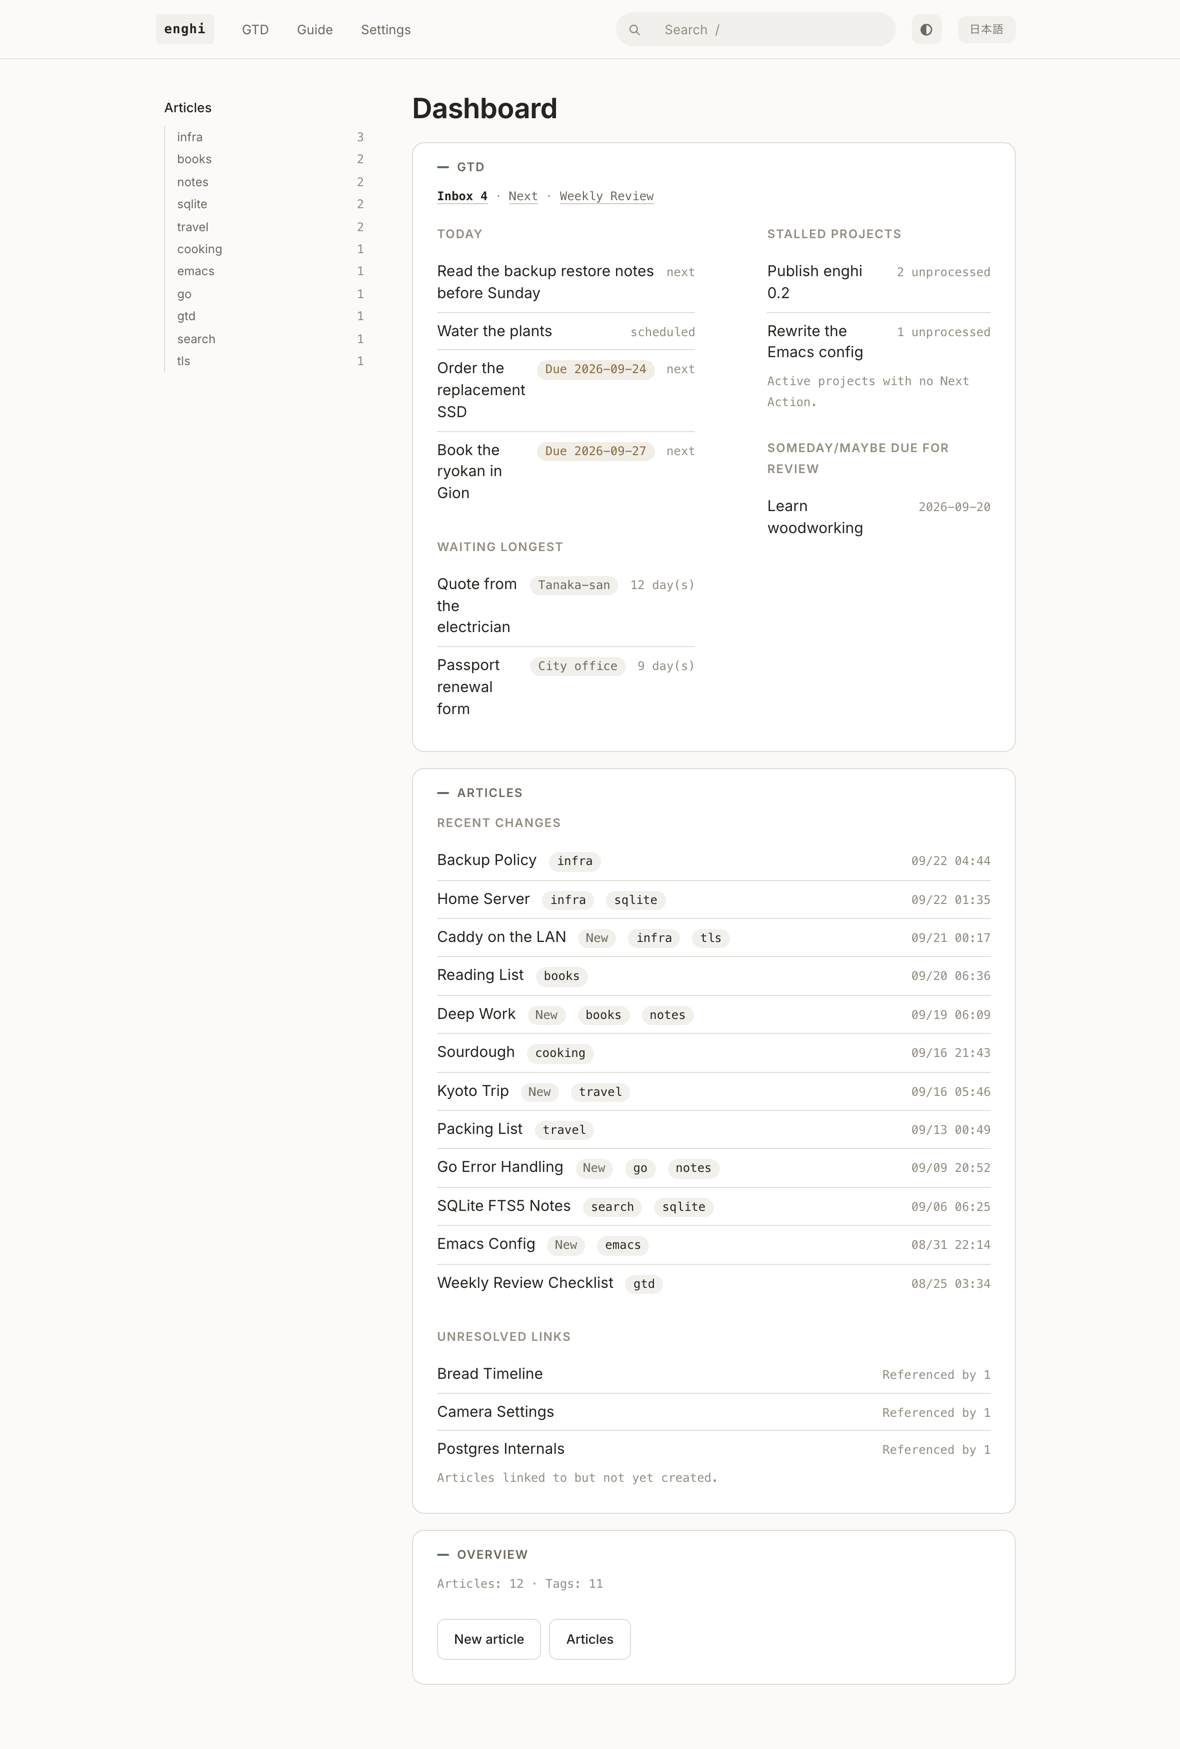
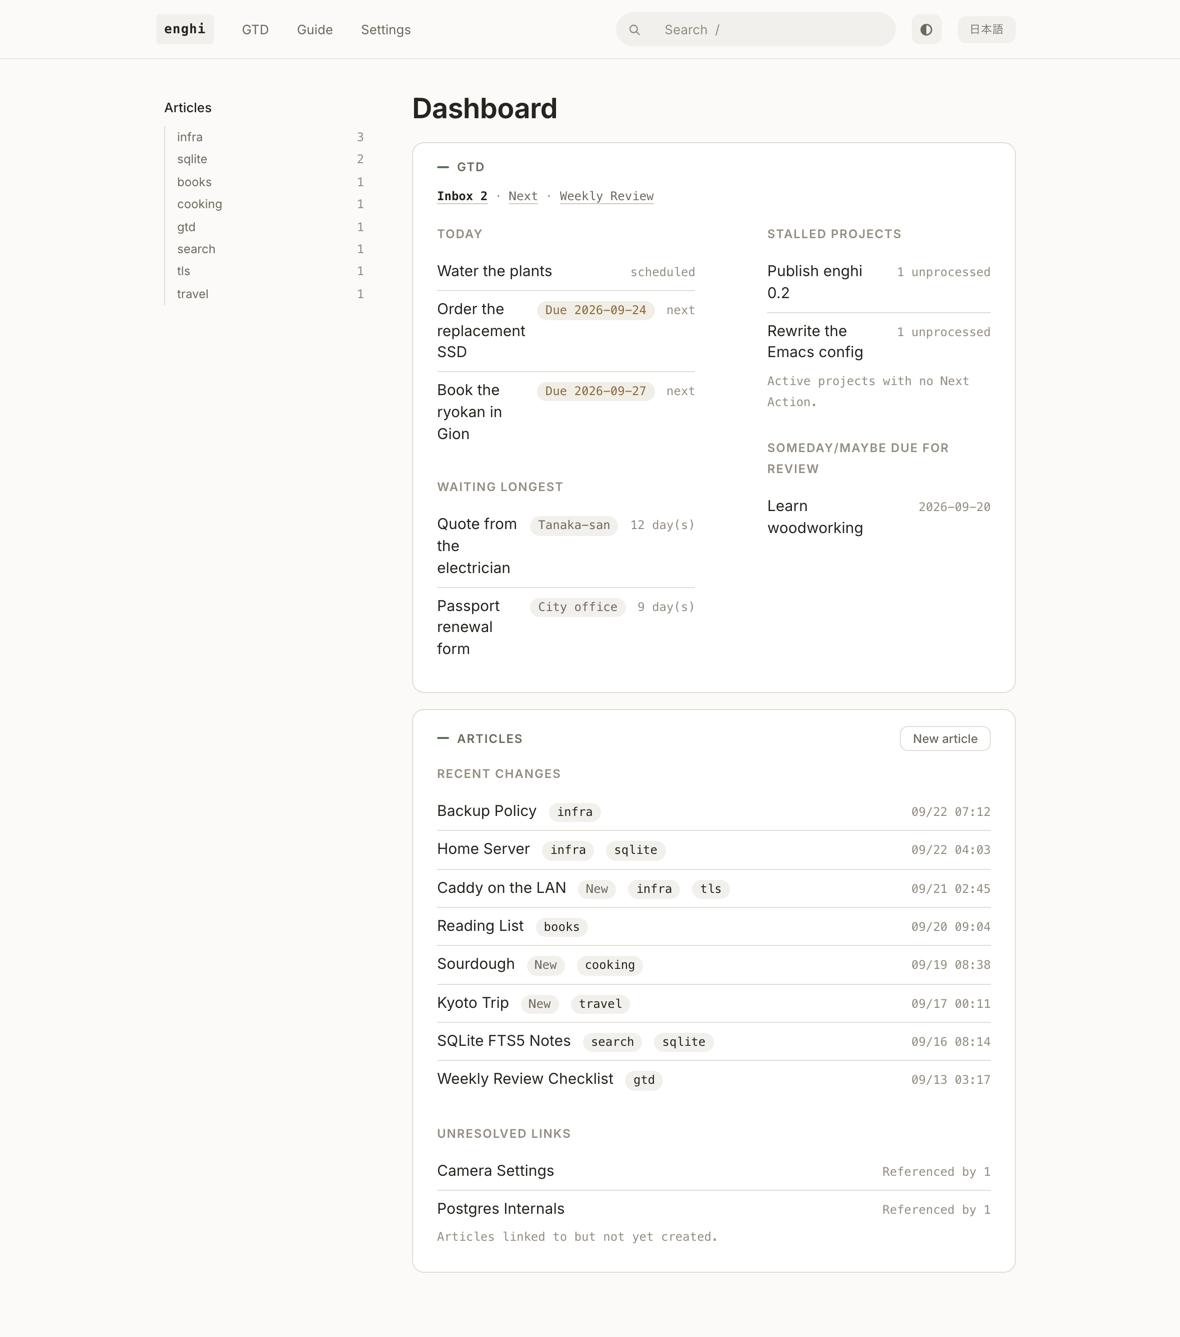
Dashboard: drop the Overview panel
It held an article count and two buttons. The tag list moved to the side
nav, so the count was a duplicate, and the Articles heading is already a
link to /wiki. What is left worth keeping is the New article button,
which now sits at the right of the Articles heading.

The README screenshots are retaken against a smaller seed: every block
still shows its kind of row, with fewer of them.

diff --git a/web/templates/dashboard.html b/web/templates/dashboard.html
@@ -83,7 +83,8 @@
 
 {{/* Lower half: the wiki */}}
 <section class="panel card">
-  <h2><a href="/wiki">{{t "dash.articles"}}</a></h2>
+  <h2><a href="/wiki">{{t "dash.articles"}}</a>
+      <a class="btn" href="/wiki/new">{{t "dash.new_article"}}</a></h2>
 
   {{/* Created and updated appear in one stream. version == 1 means it has not
        been edited since it was created, i.e. it is new */}}
@@ -119,15 +120,6 @@
     <div class="meta">{{t "dash.unresolved_note"}}</div>
   </div>
   {{end}}
-</section>
-
-<section class="panel card">
-  <h2>{{t "dash.overall"}}</h2>
-  <div class="meta">{{t "dash.summary" $d.Wiki.TotalPages (len $d.Wiki.Tags)}}</div>
-  <div class="actions">
-    <a class="btn" href="/wiki/new">{{t "dash.new_article"}}</a>
-    <a class="btn" href="/wiki">{{t "page.list_title"}}</a>
-  </div>
 </section>
 
 {{template "foot" .}}

diff --git a/web/static/app.css b/web/static/app.css
@@ -447,6 +447,13 @@ section.panel > h2::before {
 }
 section.panel .cols { margin-top: var(--sp-4); }
 
+/* The one action a panel carries rides in its heading row, on the right.
+   The heading is uppercase with wide tracking; a button in it is not. */
+section.panel > h2 > .btn {
+  margin-left: auto; text-transform: none; letter-spacing: normal;
+  font-size: var(--fs-2); padding: var(--sp-1) var(--sp-3);
+}
+
 /* A subheading inside a section, such as within cols. No rule; tracking alone
    carries the hierarchy */
 .subhead {

diff --git a/internal/i18n/ja.go b/internal/i18n/ja.go
@@ -59,8 +59,6 @@ func init() {
 		"dash.unresolved_note": "リンクされているものの、まだ作成されていない記事。",
 		"dash.no_articles":     "まだ記事がありません。",
 		"dash.write_first":     "最初の1件を作成する",
-		"dash.overall":         "全体",
-		"dash.summary":         "記事 %d 件 / タグ %d 種",
 		"dash.new_article":     "新しい記事",
 		"dash.export":          "Markdown にエクスポート",
 		"dash.referenced_by":   "%d 件から参照",

diff --git a/internal/i18n/en.go b/internal/i18n/en.go
@@ -59,8 +59,6 @@ func init() {
 		"dash.unresolved_note": "Articles linked to but not yet created.",
 		"dash.no_articles":     "No articles yet.",
 		"dash.write_first":     "Create your first article",
-		"dash.overall":         "Overview",
-		"dash.summary":         "Articles: %d · Tags: %d",
 		"dash.new_article":     "New article",
 		"dash.export":          "Export to Markdown",
 		"dash.referenced_by":   "Referenced by %d",
